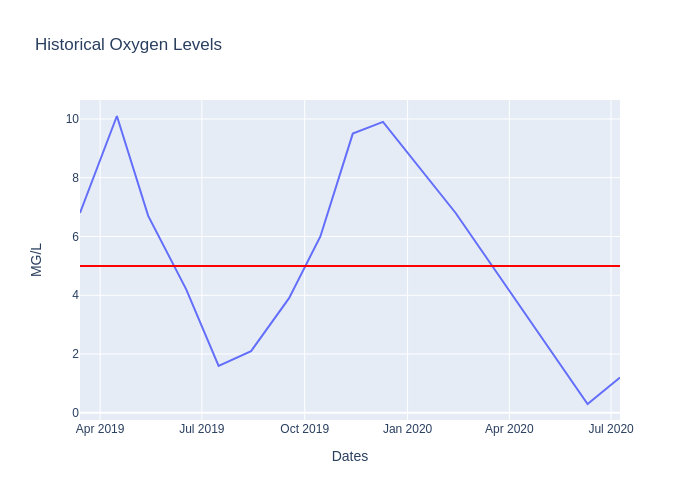
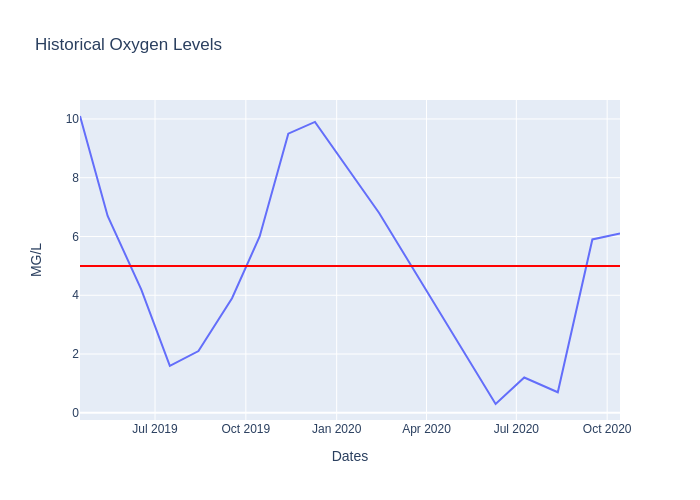
Deploy IzzyFad/NorthropGrumman-HIP to github.com/IzzyFad/NorthropGrumman-HIP.git:gh-pages

diff --git a/docs/index.html b/docs/index.html
@@ -49,11 +49,11 @@
     <div id="levels">
       <div id="left-side">
           <p> CURRENT* LEVELS: </p>
-          <p> <span class="highlight"> WATER TEMPERATURE </span> 27.5 &deg;C </p>
-          <p> <span class="highlight"> PHOSPHATE LEVELS </span>  0.0591 mg/L </p>
-          <p> <span class="highlight"> TURBIDITY </span> 0.7 Meters  </p>
-          <p> <span class="highlight"> OXYGEN LEVELS </span>  1.2 mg/L </p>
-          <p> <span class="highlight"> NITRATE LEVELS </span>  0.83 mg/L  </p>
+          <p> <span class="highlight"> WATER TEMPERATURE </span> 19.4 &deg;C </p>
+          <p> <span class="highlight"> PHOSPHATE LEVELS </span>  0.0341 mg/L </p>
+          <p> <span class="highlight"> TURBIDITY </span> 1.3 Meters  </p>
+          <p> <span class="highlight"> OXYGEN LEVELS </span>  6.1 mg/L </p>
+          <p> <span class="highlight"> NITRATE LEVELS </span>  0.545 mg/L  </p>
         </div>
         <div id="right-side">
           <p> Barriers/Max Levels: </p>
@@ -65,7 +65,7 @@
         </div>
       </div>
     <div id="updated-as-of">
-      <p> *UPDATED AS OF  03-12-2019 <br />
+      <p> *UPDATED AS OF  03-19-2019 <br />
           SEE ABOUT PAGE FOR INFORMATION ON DATA SOURCE
       </p>
       <div id="disclaimer">

diff --git a/docs/phosphate.html b/docs/phosphate.html
@@ -53,10 +53,10 @@
       <div id="updated-value">
         <h1> <span class="highlight-alt"> &nbsp; MOST RECENT DATA VALUE: &nbsp; </span> </h1>
         <div id="placeholder-value">
-          <h1> 0.0591 mg/L </h1>
+          <h1> 0.0341 mg/L </h1>
         </div>
         <div id="placeholder-value">
-          <h1> 2020-07-09 </h1>
+          <h1> 2020-10-14 </h1>
         </div>
       </div>
     </div>

diff --git a/docs/watertemp.html b/docs/watertemp.html
@@ -53,10 +53,10 @@
       <div id="updated-value">
         <h1> <span class="highlight-alt"> &nbsp; MOST RECENT DATA VALUE: &nbsp; </span> </h1>
         <div id="placeholder-value">
-          <h1> 27.5 &deg;C </h1>
+          <h1> 19.4 &deg;C </h1>
         </div>
         <div id="placeholder-value">
-          <h1> 2020-07-09 </h1>
+          <h1> 2020-10-14 </h1>
         </div>
       </div>
     </div>

diff --git a/docs/turbidity.html b/docs/turbidity.html
@@ -53,10 +53,10 @@
       <div id="updated-value">
         <h1> <span class="highlight-alt"> &nbsp; MOST RECENT DATA VALUE: &nbsp; </span> </h1>
         <div id="placeholder-value">
-          <h1> 0.7 Meters </h1>
+          <h1> 1.3 Meters </h1>
         </div>
         <div id="placeholder-value">
-          <h1> 2020-07-09 </h1>
+          <h1> 2020-10-14 </h1>
         </div>
       </div>
     </div>

diff --git a/docs/nitrate.html b/docs/nitrate.html
@@ -53,10 +53,10 @@
       <div id="updated-value">
         <h1> <span class="highlight-alt"> &nbsp; MOST RECENT DATA VALUE: &nbsp; </span> </h1>
         <div id="placeholder-value">
-          <h1> 0.83 mg/L </h1>
+          <h1> 0.545 mg/L </h1>
         </div>
         <div id="placeholder-value">
-          <h1> 2020-07-09 </h1>
+          <h1> 2020-10-14 </h1>
         </div>
       </div>
     </div>

diff --git a/docs/oxygen.html b/docs/oxygen.html
@@ -53,10 +53,10 @@
       <div id="updated-value">
         <h1> <span class="highlight-alt"> &nbsp; MOST RECENT DATA VALUE: &nbsp; </span> </h1>
         <div id="placeholder-value">
-          <h1> 1.2 mg/L </h1>
+          <h1> 6.1 mg/L </h1>
         </div>
         <div id="placeholder-value">
-          <h1> 2020-07-09 </h1>
+          <h1> 2020-10-14 </h1>
         </div>
       </div>
     </div>
